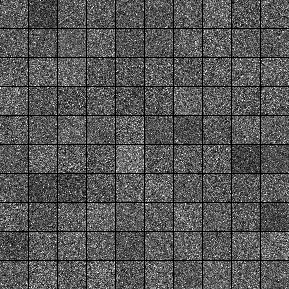
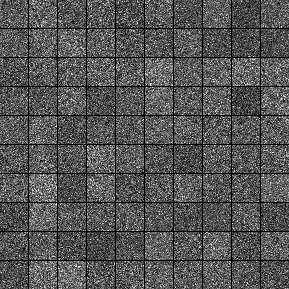
fixed some math

diff --git a/invariant_rbm.py b/invariant_rbm.py
@@ -30,15 +30,11 @@ sigm = lambda x: T.nnet.sigmoid(x)
 
 
 def zeros_init(name, *shape):
-    import theano
-
     value = np.zeros(shape=shape, dtype=theano.config.floatX)
     return theano.shared(name=name, value=value, borrow=True)
 
 
 def glorot_init(name, *shape):
-    import theano
-
     magnitude = 4 * np.sqrt(6. / sum(shape))
     value = np.asarray(rng.uniform(low=-magnitude, high=magnitude, size=shape), dtype=theano.config.floatX)
     return theano.shared(name=name, value=value, borrow=True)
@@ -49,7 +45,7 @@ def glorot_init(name, *shape):
 # there are n_filt filters
 # h = <n_hid, n_filt>
 
-def build_rbm(n_vis, n_hid, n_rep, n_filt):
+def build_rbm(n_vis, n_hid, n_rep, n_filt, n_batch):
     R = glorot_init('R', n_vis, n_filt, n_rep)
     W = glorot_init('W', n_rep, n_hid)
 
@@ -63,10 +59,8 @@ def build_rbm(n_vis, n_hid, n_rep, n_filt):
     def gibbs_step(v_in):
         h_inner = T.tensordot(v_in, R, axes=[1, 0])
         h_inner = T.tensordot(h_inner, W, axes=[2, 0]) + hbias
-        mean_h = T.exp(h_inner) / (1 + T.sum(T.exp(h_inner), axis=2, keepdims=True))
-
-        # slow, because you're calculating 500 multinomial distributions
-        h = trng.multinomial(pvals=mean_h, dtype=theano.config.floatX)
+        mean_h = T.exp(h_inner) / (1 + T.sum(T.exp(h_inner), axis=1, keepdims=True))
+        h = trng.multinomial(pvals=mean_h.transpose(0, 2, 1), dtype=theano.config.floatX).transpose(0, 2, 1)
         rw = T.tensordot(R, W, axes=[2, 0])
         mean_v = T.nnet.sigmoid(T.tensordot(h, rw, axes=[[1, 2], [1, 2]]) + vbias)
         v_out = trng.binomial(size=mean_v.shape, n=1, p=mean_v, dtype=theano.config.floatX)
@@ -81,29 +75,29 @@ def build_rbm(n_vis, n_hid, n_rep, n_filt):
 
     def free_energy(v):
         repr = T.tensordot(v, R, axes=[1, 0])
-        hidden_term = (T.log(1 + T.exp(T.tensordot(repr, W, axes=[2, 0]) + hbias)).sum(axis=2).mean(axis=1))
+        hidden_term = T.log(1 + T.exp(T.tensordot(repr, W, axes=[2, 0]) + hbias)).sum(axis=2).sum(axis=1)
         vbias_term = T.dot(v, vbias)
         return -hidden_term - vbias_term
 
-    cost = T.mean(free_energy(v) - free_energy(v_sample))
+    cost = T.mean(free_energy(v)) - T.mean(free_energy(v_sample))
 
     for param in [R, W, vbias, hbias]:
-        gparam = T.grad(cost=cost, wrt=param, consider_constant=[v, v_sample])
+        gparam = T.grad(cost=cost, wrt=param, consider_constant=[v_sample])
         updates[param] = param - gparam * lr
 
     return k, v, lr, W, R, cost, updates, monitor
 
 if __name__ == '__main__':
     n_vis = 28 * 28
-    n_hid = 100
-    n_rep = 101
-    n_filt = 102
-    k = 10
-    batch_size = 50
+    n_hid = 512
+    n_rep = 256
+    n_filt = 128
+    k = 50
+    batch_size = 10
     training_epochs = 15
     save_dir = 'tirbm_mnist'
 
-    k, v, lr, W, R, cost, updates, monitor = build_rbm(n_vis, n_hid, n_rep, n_filt)
+    k, v, lr, W, R, cost, updates, monitor = build_rbm(n_vis, n_hid, n_rep, n_filt, batch_size)
 
     if 'MNIST_PATH' not in os.environ:
         print('You must set MNIST_PATH as an environment variable (pointing at mnist.pkl.gz). You can download the ' +
@@ -137,15 +131,15 @@ if __name__ == '__main__':
                                  givens={v: train_X[index*batch_size:(index+1)*batch_size]},
                                  name='train_rbm')
 
-    learning_rate = 0.01
+    learning_rate = 0.00001
     for epoch in range(training_epochs):
         mean_cost = list()
         for batch_index in range(n_train_batches):
             frac = (n_train_batches - batch_index) * 10 / n_train_batches
-            cost = train_func(batch_index, learning_rate, epoch * 10 + frac + 1)
+            cost = train_func(batch_index, learning_rate, 8)
             mean_cost.append(cost)
             print('\r[' + '=' * (10 - frac) + '>' + ' ' * frac + '] :: (%d / %d) Cost: %f' % (batch_index, n_train_batches, cost), end='')
         print('\r[===========] :: Cost: %f' % (np.mean(mean_cost)))
 
         image = Image.fromarray(tile_raster_images(X=get_plt(), img_shape=(28, 28), tile_shape=(10, 10), tile_spacing=(1, 1)))
-        image.save(os.path.join(save_dir, 'filters_at_epoch_%i.png' % epoch))
+        image.save(os.path.join(save_dir, 'filters_at_epoch_%i_batch_%i.png' % (epoch, batch_index)))

diff --git a/test.py b/test.py
@@ -82,8 +82,9 @@ v = rnd(b_size, n_vis)
 R = rnd(n_vis, n_filt, n_rep)
 W = rnd(n_rep, n_hid)
 vbias = rnd(n_vis)
-hbias = theano.shared(name='hbias', value=rnd(13, n_filt, n_hid), strict=False)
-h = T.exp(hbias) / (1 + T.sum(T.exp(hbias), axis=2, keepdims=True))
+hbias = rnd(n_filt, n_hid)
+# hbias = theano.shared(name='hbias', value=rnd(13, n_filt, n_hid), strict=False)
+# h = T.exp(hbias) / (1 + T.sum(T.exp(hbias), axis=1, keepdims=True))
 
 # def gibbs_step(v_in):
 #     h_inner = np.tensordot(v_in, R, axes=[1, 0])
@@ -97,10 +98,14 @@ h = T.exp(hbias) / (1 + T.sum(T.exp(hbias), axis=2, keepdims=True))
 #     v_out = np.random.binomial(size=mean_v.shape, n=1, p=mean_v)
 #     return mean_v, v_out
 
-output = trng.multinomial(pvals=h)
+repr = np.tensordot(v, R, axes=[1, 0])
+hidden_term = np.log(1 + np.exp(np.tensordot(repr, W, axes=[2, 0]) + hbias))
+# vbias_term = np.dot(v, vbias)
 
-f = theano.function([], h.sum(axis=2).max())
-print(f())
+print(hidden_term.shape)
+# print(vbias_term.shape)
 
-g = theano.function([], output)
-print(g())
+# output = trng.multinomial(pvals=h.transpose(0, 2, 1)).transpose(0, 2, 1)
+#
+# g = theano.function([], output)
+# print(g())
